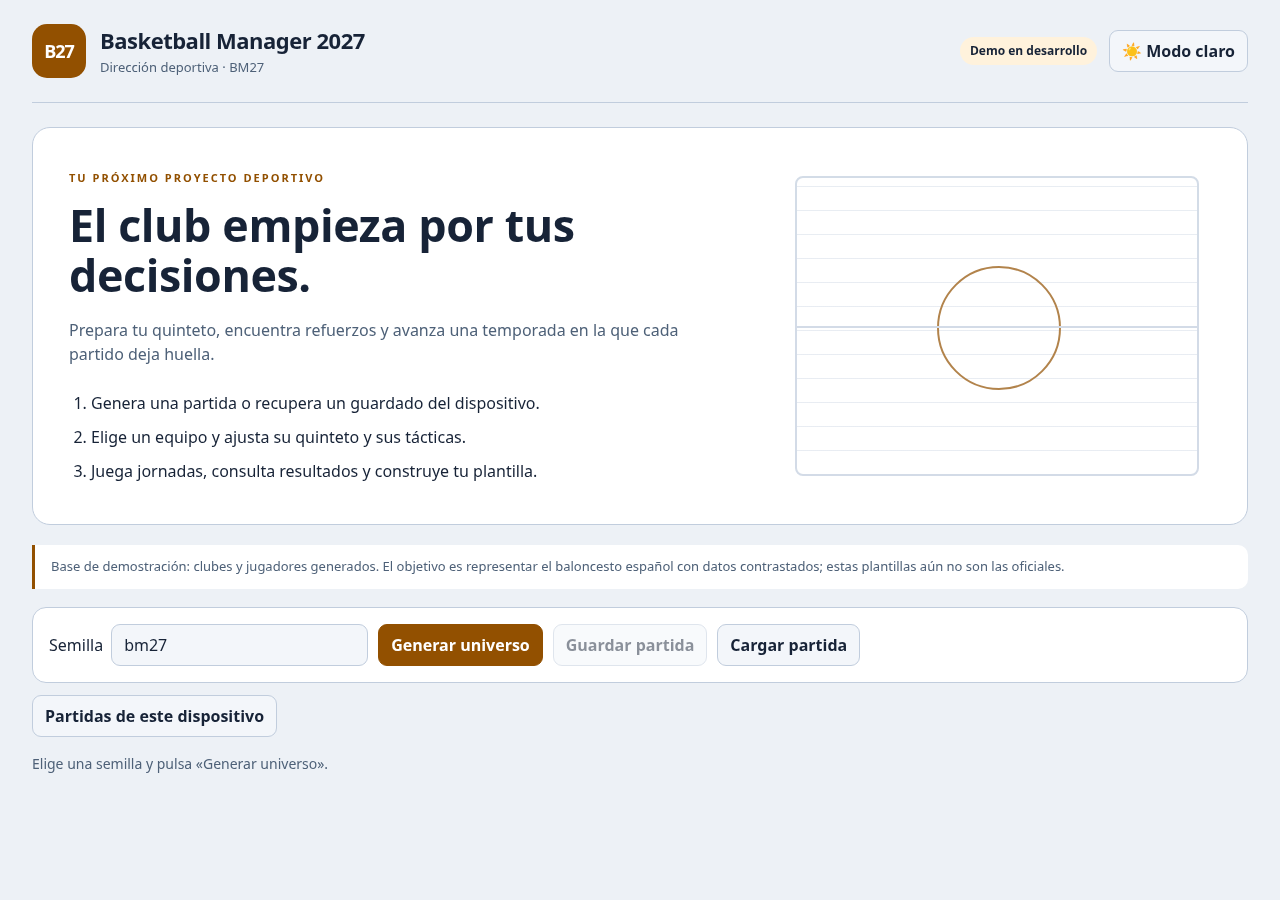
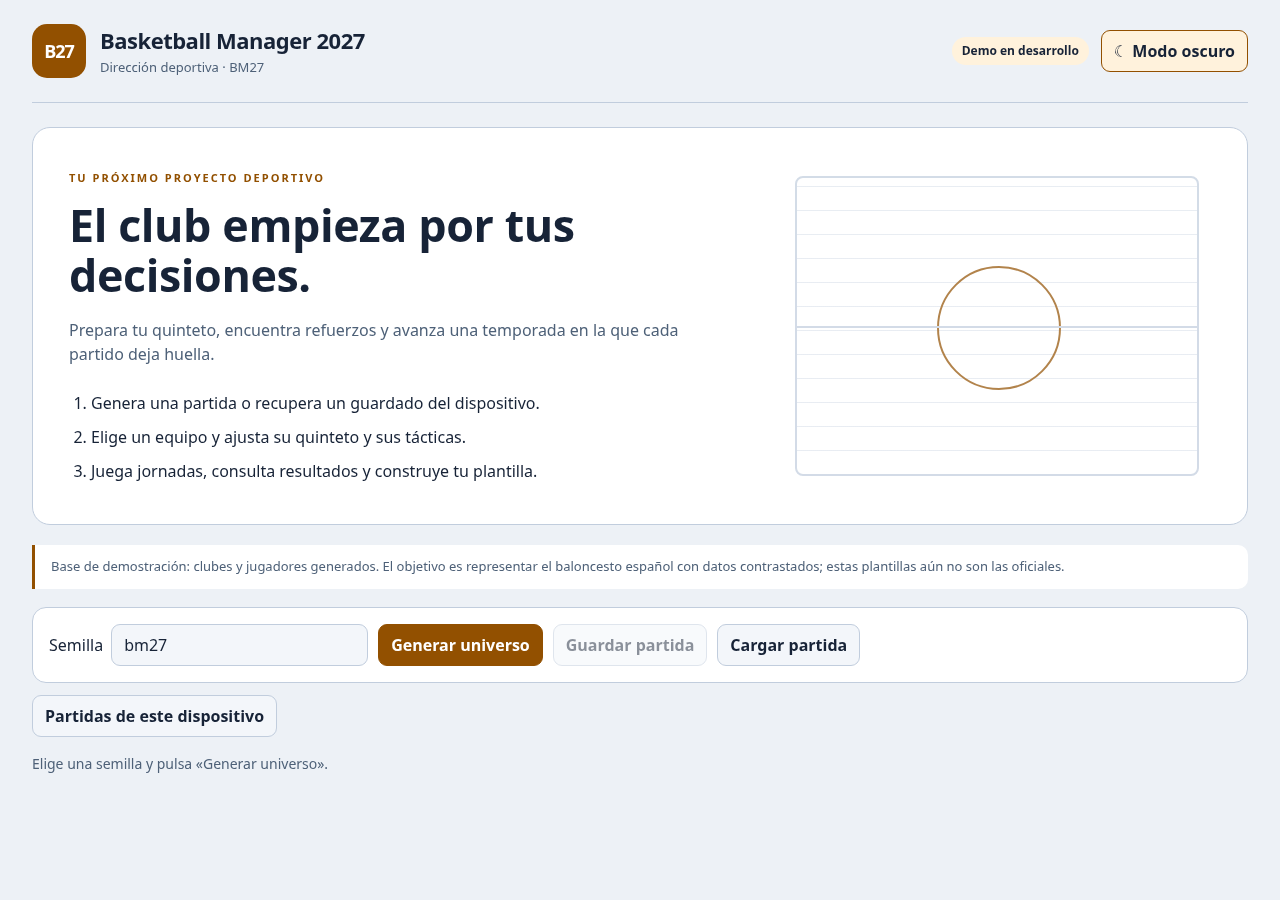
Capturar ambos temas mediante el control real de la interfaz

Changed region(s): [[0.75, 0.0311, 1.0, 0.0933]]

diff --git a/tools/qa/demo_visual.py b/tools/qa/demo_visual.py
@@ -21,7 +21,9 @@ with sync_playwright() as p:
     for width,label in [(1280,'desktop'),(390,'mobile')]:
         page.set_viewport_size({'width':width,'height':900 if width==1280 else 844})
         for theme in ['dark','light']:
-            page.evaluate('(theme)=>{document.documentElement.dataset.theme=theme}',theme)
+
+            if page.evaluate('document.documentElement.dataset.theme') != theme:
+                page.get_by_role('button',name='☀ Modo claro' if theme == 'light' else '☾ Modo oscuro',exact=True).click()
             audit('welcome-'+label+'-'+theme)
             page.screenshot(path=f'{output_dir}/welcome-{label}-{theme}.png',full_page=True)
     page.set_viewport_size({'width':1280,'height':900})
@@ -34,7 +36,9 @@ with sync_playwright() as p:
     for width,label in [(1280,'desktop'),(390,'mobile')]:
         page.set_viewport_size({'width':width,'height':900 if width==1280 else 844})
         for theme in ['dark','light']:
-            page.evaluate('(theme)=>{document.documentElement.dataset.theme=theme}',theme)
+
+            if page.evaluate('document.documentElement.dataset.theme') != theme:
+                page.get_by_role('button',name='☀ Modo claro' if theme == 'light' else '☾ Modo oscuro',exact=True).click()
             for tab in ['Mi equipo','Tácticas','Quinteto','Mercado','Finanzas','Competición','Partido','Partidas']:
                 page.get_by_role('navigation').get_by_role('button',name=tab,exact=True).click()
                 page.wait_for_timeout(100)
@@ -48,12 +52,13 @@ with sync_playwright() as p:
                         assert region.evaluate('(e)=>e.scrollLeft')>0
                         region.evaluate('(e)=>{e.scrollLeft=0}')
                 if tab=='Mi equipo': page.screenshot(path=f'{output_dir}/team-{label}-{theme}.png',full_page=True)
-    # Reset DOM theme to match React state, then test actual toggle persistence.
-    page.evaluate("document.documentElement.dataset.theme=localStorage.getItem('bm27-theme')")
-    page.get_by_role('button',name='☀ Modo claro',exact=True).click()
+    # Verify the final selected light theme survives a page reload.
     page.reload(wait_until='domcontentloaded')
     assert page.evaluate('document.documentElement.dataset.theme')=='light'
-    page.get_by_role('button',name='☾ Modo oscuro',exact=True).wait_for()
+    page.get_by_role('button',name='☾ Modo oscuro',exact=True).click()
+    page.reload(wait_until='domcontentloaded')
+    page.get_by_role('button',name='☀ Modo claro',exact=True).wait_for()
+    assert page.evaluate('document.documentElement.dataset.theme')=='dark'
     # Keyboard focus must remain visible.
     page.keyboard.press('Tab')
     focus=page.evaluate('getComputedStyle(document.activeElement).outlineStyle')
